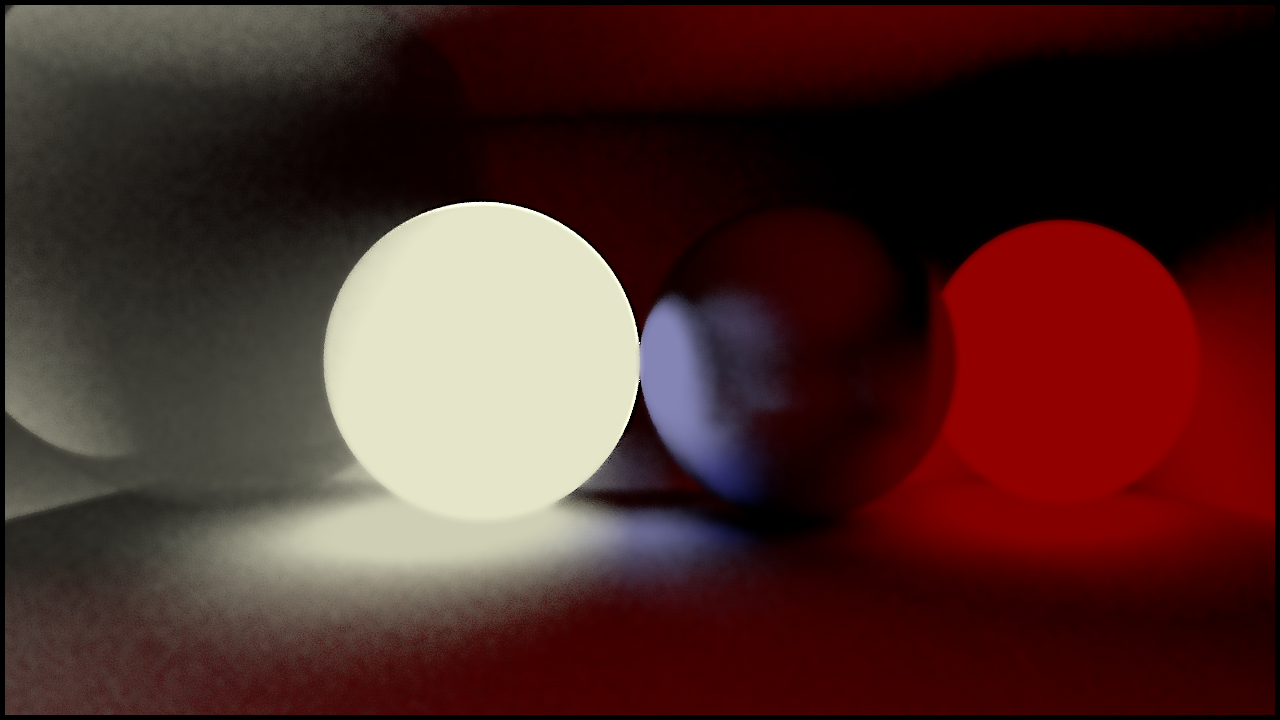
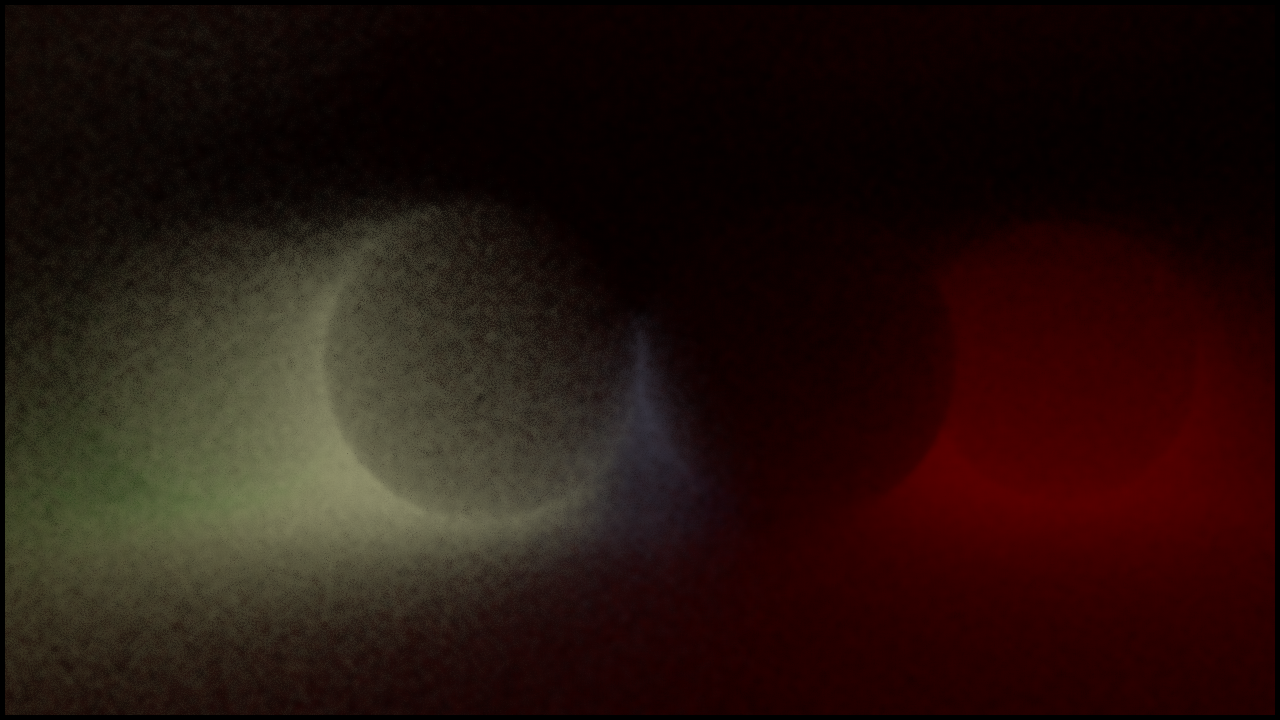
v0.0.2

diff --git a/main.cpp b/main.cpp
@@ -22,37 +22,35 @@ int main(int argc, char *argv[]) {
         filename = argv[1];
     }
 
-    printf("StingRay v0.0.1 [WIP]\n");
+    printf("StingRay v0.0.2\n");
 
-    RenderBuffer img = RenderBuffer(IMG_WIDTH, IMG_HEIGHT);
+    RenderBuffer img          = RenderBuffer(IMG_WIDTH, IMG_HEIGHT);
     StingrayRenderer renderer = StingrayRenderer(img);
     StingrayDenoiser denoiser = StingrayDenoiser(img);
 
     EmissiveMaterial red   = EmissiveMaterial(Vec3(0.3, 0.0, 0.0));
-    GlossyMaterial blue  = GlossyMaterial(Vec3(0.3, 0.3, 0.8), 0.3);
-    VolumeMaterial smoke = VolumeMaterial(Vec3(0.2));
-    ColorMaterial white = ColorMaterial(Vec3(0.8, 0.8, 0.8));
+    GlossyMaterial blue    = GlossyMaterial(  Vec3(0.3, 0.3, 0.8), 0.3);
+    ColorMaterial green    = ColorMaterial(   Vec3(0.0, 0.8, 0.0));
+    ColorMaterial white    = ColorMaterial(   Vec3(0.8, 0.8, 0.8));
 
 
     VolumeMaterial dust = VolumeMaterial(Vec3(0.8, 0.8, 0.6));
 
-    EmissiveMaterial light  = EmissiveMaterial(Vec3(0.8, 0.8, 0.6));
-    EmissiveMaterial light2 = EmissiveMaterial(Vec3(0.3, 0.3, 0.3));
+    EmissiveMaterial light  = EmissiveMaterial(Vec3(0.9, 0.9, 0.8));
 
     StingrayScene *scene = new StingrayScene({
-        new Sphere(Vec3(-0.5, 0, 1), 0.5,           &light),
-        new Sphere(Vec3( 0.5, 0, 1), 0.5,           &blue),
-        //new Volume(  // Uncomment for fog / dust effect
-        //    new Sphere(Vec3(0.0, 0.0, 19.5), 20, NULL),  &dust, 0.3),
-        new Sphere(Vec3( 1.5, 0, 1), 0.5,           &red),
-        
+        new Sphere(Vec3(-0.5, 0, 1), 0.5,   &light),
+        new Sphere(Vec3( 0.5, 0, 1), 0.5,   &blue),
         new Volume(
-            new Sphere(Vec3(-1.5, 0.5, 1), 1.0, NULL),  &smoke, 0.9),
+            new Sphere(Vec3(0.0, 0.0, 0.0), 200, NULL), &dust, 0.1),
+        new Sphere(Vec3( 1.5, 0, 1),  0.5,  &red),
+        new Sphere(Vec3( -1.5, 0, 1), 0.5,  &green),
+        
 
         new Sphere(Vec3(0.0, -9999.5,  0.0), 9999.0, &white),
-        new Sphere(Vec3(0.0, 10000,    0.0), 9999.0, &white),
-        new Sphere(Vec3(-10001, 0.0,   0.0), 9999.0, &white),
-        new Sphere(Vec3(10001 ,  0.0,  0.0), 9999.0, &white),
+        new Sphere(Vec3(0.0,   10000,  0.0), 9999.0, &white),
+        new Sphere(Vec3(-10001,  0.0,  0.0), 9999.0, &white),
+        new Sphere(Vec3( 10001,  0.0,  0.0), 9999.0, &white),
         new Sphere(Vec3(0.0, 0.0,  10000.5), 9999.0, &white),
         new Sphere(Vec3(0.0, 0.0, -10000.5), 9999.0, &white)
     });

diff --git a/renderer/renderer.cpp b/renderer/renderer.cpp
@@ -16,7 +16,7 @@ Ray StingrayRenderer::camera_ray(const Vec3& uv) {
     Vec3 eye = Vec3(0.0f, 0.0f, -1.0f);
 
     Vec3 direction = screen_plane.normalize();
-    return Ray(eye, direction);
+    return Ray(eye, direction, true);
 }
 
 Vec3 StingrayRenderer::sky_color(const Vec3& dir) {
@@ -77,8 +77,8 @@ void StingrayRenderer::render(int startX, int startY, int endX, int endY, int sa
             for (int i = 0; i < samples; i++) {
                     // Antialiasing by offestting the eye position by a small amount
                     // TODO: faster random number generation
-                Ray camera = Ray (orig_camera.origin + Vec3(randf(), randf(), randf()) * 0.004, orig_camera.direction);
-                color = color + ray_shader(camera, scene, 15);
+                Ray camera = Ray (orig_camera.origin + Vec3(randf(), randf(), randf()) * 0.004, orig_camera.direction, true);
+                color = color + ray_shader(camera, scene, 32);
             }
             color = color / (float)samples;
 

diff --git a/objects/sphere.hpp b/objects/sphere.hpp
@@ -22,12 +22,10 @@ public:
 
     // Thanks to https://raytracing.github.io/books/RayTracingInOneWeekend.html
     HitInfo intersect(Ray& r, StingrayScene *scene) {
-        if ((r.origin - this->center).length() < this->radius) {
-            Ray newRay = Ray(r.origin + r.direction * radius * 2.1, -r.direction);
-            HitInfo intersect_info = this->intersect(newRay, scene);
-            intersect_info.distance = (r.origin - intersect_info.position).length();
-            return intersect_info;
+        if (r.viewRay && (r.origin - this->center).length() < this->radius) {
+            return HitInfo { true, &r, 0.0, r.origin, Vec3(0.57735026919), this };
         }
+
         Vec3 oc = r.origin - center;
         float a = r.direction.dot(r.direction);
         float half_b = oc.dot(r.direction);

diff --git a/objects/volume.hpp b/objects/volume.hpp
@@ -55,7 +55,7 @@ public:
             return front_int;
         }
 
-        Ray back_ray = Ray(front_int.position + r.direction *.01, r.direction);
+        Ray back_ray = Ray(front_int.position + r.direction *.01, r.direction, false);
         HitInfo back_int = scene->intersect(back_ray);
         if (!back_int.hit) {
             return back_int;

diff --git a/renderer/denoiser.hpp b/renderer/denoiser.hpp
@@ -14,7 +14,7 @@ public:
     void denoise() {
         int texelSize = 10;
         int halfTexelSize = texelSize / 2;
-        float sigma = 10.0f;
+        float sigma = 5.0f;
         RenderBuffer newBuf = RenderBuffer(this->buf.width, this->buf.height);
 
         for (int x = halfTexelSize; x < this->buf.width - halfTexelSize; ++x) {

diff --git a/renderer/ray.hpp b/renderer/ray.hpp
@@ -25,10 +25,12 @@ private:
 public:
     Vec3 origin;
     Vec3 direction;
+    bool viewRay;
 
-    Ray(Vec3 origin, Vec3 direction) {
+    Ray(Vec3 origin, Vec3 direction, bool view) {
         this->origin = origin;
         this->direction = direction;
+        this->viewRay = view;
     }
 };
 
